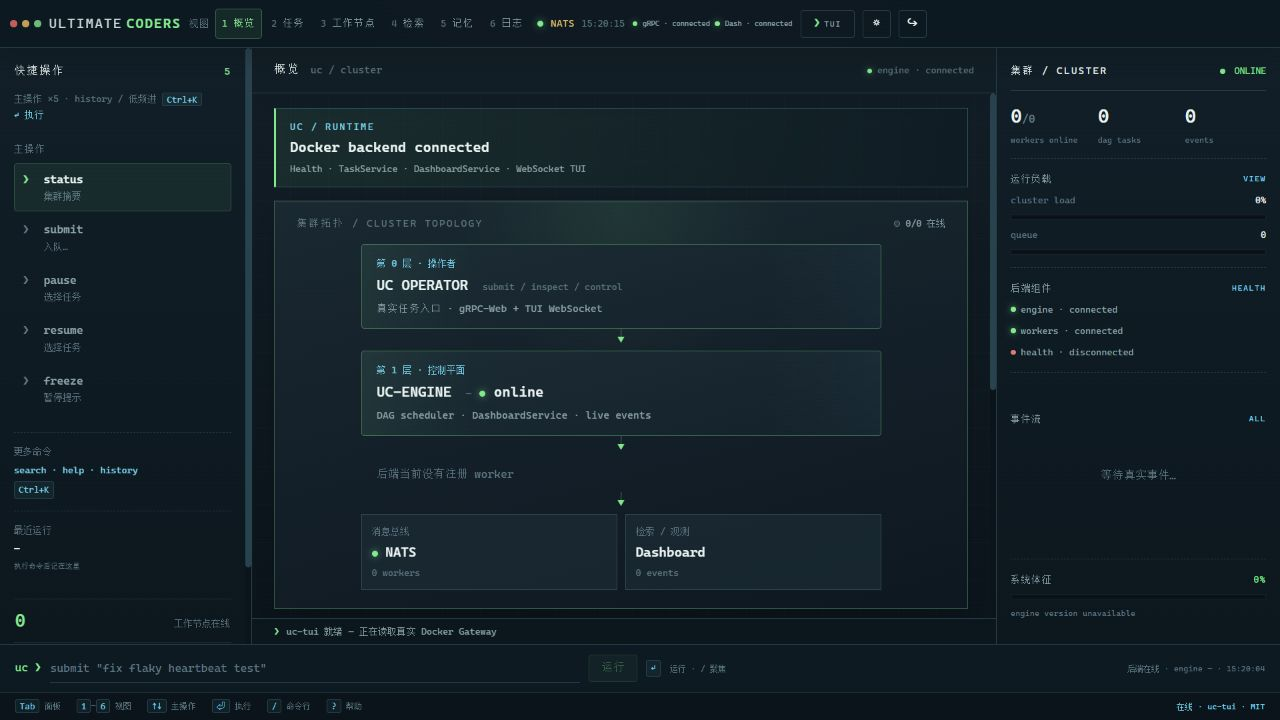
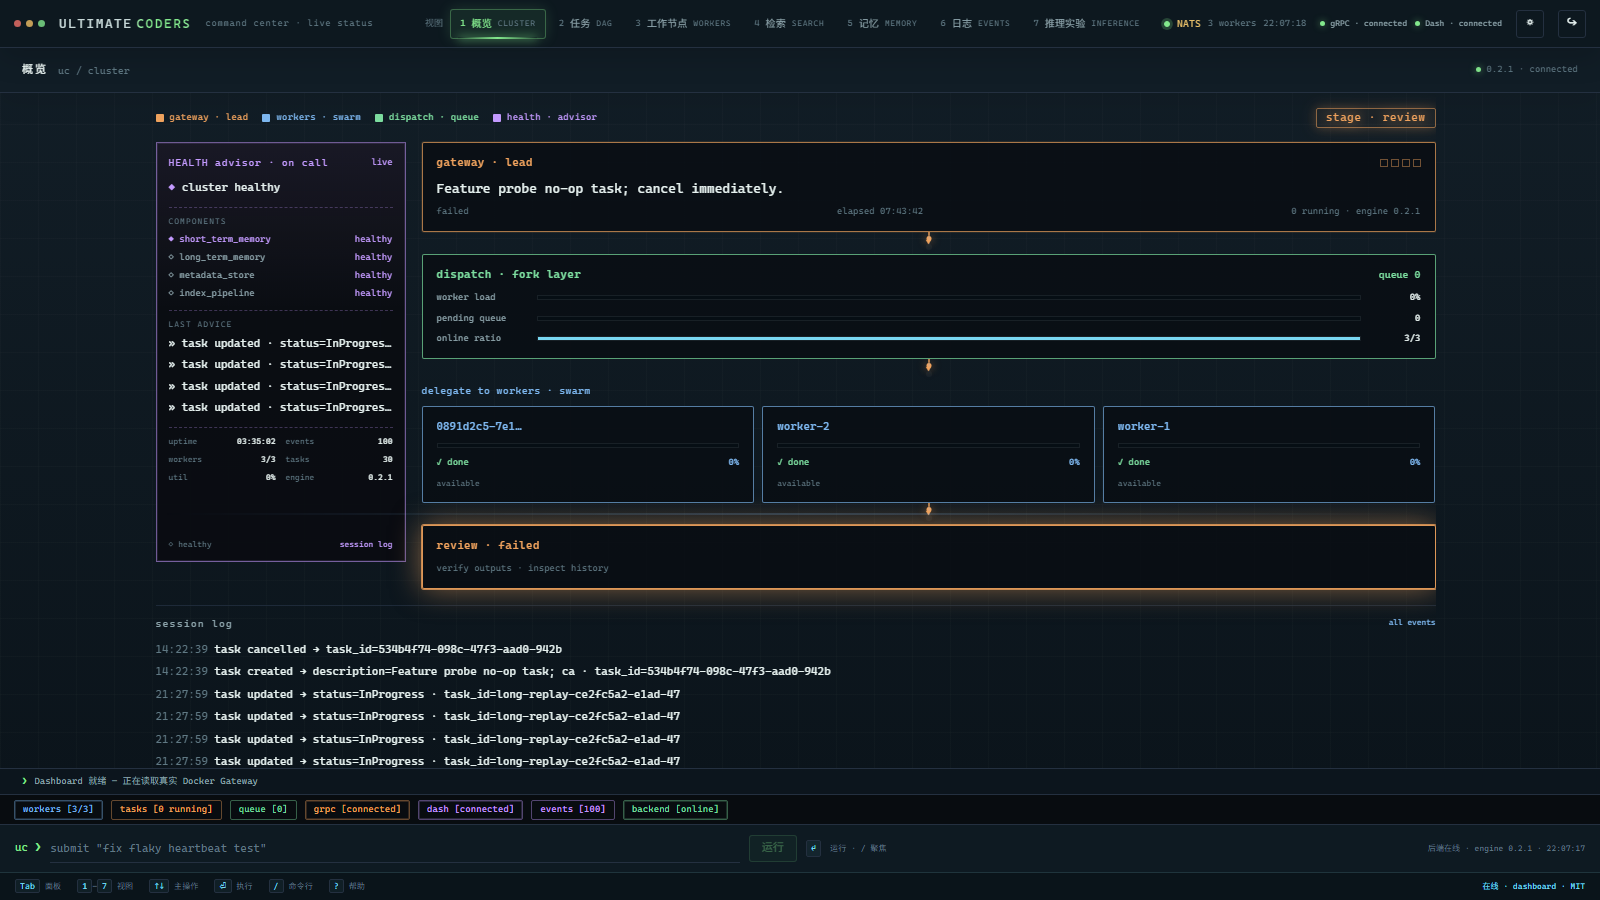
feat(ui): motion polish + refreshed README visuals (#820)
- README (EN/zh-CN): regenerate the product capability and use-case
  graphics with the current feature set (MCP tool servers, deep-linkable
  views, cross-host scale dry-run), add a live operations-dashboard
  screenshot, and refresh the captions.
- Architecture SVGs: regenerate from scripts/generate-architecture.py with
  the worker MCP tool servers noted (EN/zh-CN, landscape/mobile variants).
- Motion polish: view entrances, animated tab underline + glow, brand
  wordmark shimmer, pulsing online dot, card/row hover lift, dispatch-bar
  sheen, command-center scan line, home hero rise; all disabled under
  prefers-reduced-motion.

diff --git a/dashboard/src/index.css b/dashboard/src/index.css
@@ -3198,3 +3198,185 @@ body:has(.terminal-app) {
   .terminal-inference-layout > .terminal-inference-panel { padding: 10px; }
   .terminal-search-row-meta { justify-content: flex-start; }
 }
+
+/* Motion polish ---------------------------------------------------------- */
+/* Transform/opacity-only motion: view entrances, a live tab indicator, a
+   breathing stage chip, a pulsing online dot, card hover lift, a sheen on the
+   dispatch bars and a slow scan line across the command-center board. All of
+   it is disabled for reduced-motion users. */
+@keyframes uc-view-enter {
+  from { opacity: 0; transform: translateY(6px); }
+  to { opacity: 1; transform: translateY(0); }
+}
+@keyframes uc-tab-underline {
+  from { transform: scaleX(0); opacity: 0; }
+  to { transform: scaleX(1); opacity: 1; }
+}
+@keyframes uc-brand-shimmer {
+  0% { background-position: 0% 50%; }
+  100% { background-position: 200% 50%; }
+}
+@keyframes uc-online-pulse {
+  0% { box-shadow: 0 0 0 0 rgba(131, 233, 141, .5); }
+  70% { box-shadow: 0 0 0 5px rgba(131, 233, 141, 0); }
+  100% { box-shadow: 0 0 0 0 rgba(131, 233, 141, 0); }
+}
+@keyframes uc-scan-sweep {
+  0% { top: -4%; opacity: 0; }
+  10% { opacity: .5; }
+  88% { opacity: .28; }
+  100% { top: 104%; opacity: 0; }
+}
+@keyframes uc-bar-sheen {
+  0% { transform: translateX(-130%); }
+  60%, 100% { transform: translateX(230%); }
+}
+@keyframes uc-stage-breathe {
+  0%, 100% { filter: drop-shadow(0 0 0 transparent); }
+  50% { filter: drop-shadow(0 0 7px currentColor); }
+}
+@keyframes uc-home-rise {
+  from { opacity: 0; transform: translateY(16px); }
+  to { opacity: 1; transform: translateY(0); }
+}
+
+/* View transitions: each dashboard view mounts with a short rise. */
+.terminal-view-body > * {
+  animation: uc-view-enter 260ms cubic-bezier(.2, .75, .3, 1) both;
+}
+
+/* Tabs: hover lift, glow and an animated active underline. */
+.terminal-tabs button {
+  position: relative;
+  transition: color .18s ease, background .18s ease, border-color .18s ease, transform .18s ease, box-shadow .18s ease;
+}
+.terminal-tabs button:hover { transform: translateY(-1px); }
+.terminal-tabs button.active {
+  box-shadow: 0 0 14px color-mix(in srgb, var(--terminal-green) 16%, transparent);
+}
+.terminal-tabs button.active::after {
+  content: "";
+  position: absolute;
+  right: 7px;
+  bottom: -1px;
+  left: 7px;
+  height: 2px;
+  border-radius: 2px;
+  background: linear-gradient(90deg, transparent, var(--terminal-green), transparent);
+  box-shadow: 0 0 8px var(--terminal-green);
+  animation: uc-tab-underline 240ms ease-out both;
+}
+
+/* Brand wordmark shimmer. */
+.terminal-brand strong {
+  background: linear-gradient(100deg, var(--terminal-green) 0%, #eafff1 38%, var(--terminal-green) 72%);
+  background-size: 220% 100%;
+  -webkit-background-clip: text;
+  background-clip: text;
+  -webkit-text-fill-color: transparent;
+  color: transparent;
+  animation: uc-brand-shimmer 7s linear infinite;
+}
+.terminal-brand.offline strong {
+  background: none;
+  -webkit-text-fill-color: var(--terminal-amber);
+  animation: none;
+}
+
+/* Live status dot ring. */
+.terminal-topbar-status i.online,
+.terminal-live-dot.online {
+  animation: uc-online-pulse 2.4s ease-out infinite;
+}
+
+/* Command-center cards: hover lift + brightness. */
+.cc-card {
+  transition: transform .2s ease, filter .2s ease, border-color .2s ease;
+}
+.cc-card:hover {
+  transform: translateY(-2px);
+  filter: brightness(1.08);
+}
+.cc-stage-chip {
+  transition: transform .18s ease, box-shadow .18s ease;
+}
+.cc-stage-chip:not(:disabled) { animation: uc-stage-breathe 2.8s ease-in-out infinite; }
+.cc-stage-chip:hover:not(:disabled) { transform: translateY(-1px); }
+
+/* Progress-bar sheen on the dispatch bars (a handful of elements only). */
+.cc-dispatch-bars .terminal-mini-bar i { position: relative; overflow: hidden; }
+.cc-dispatch-bars .terminal-mini-bar i::after {
+  content: "";
+  position: absolute;
+  inset: 0;
+  background: linear-gradient(90deg, transparent, rgba(255, 255, 255, .35), transparent);
+  transform: translateX(-130%);
+  animation: uc-bar-sheen 2.8s ease-in-out infinite;
+}
+
+/* Slow scan line across the command-center board. */
+.terminal-overview.cc-board { position: relative; overflow: hidden; }
+.terminal-overview.cc-board::after {
+  content: "";
+  position: absolute;
+  z-index: 3;
+  right: 0;
+  left: 0;
+  height: 2px;
+  background: linear-gradient(90deg, transparent, color-mix(in srgb, var(--cc-swarm, #83e98d) 55%, transparent), transparent);
+  filter: blur(.4px);
+  animation: uc-scan-sweep 9s linear infinite;
+  pointer-events: none;
+}
+
+/* Rows: hover slide + accent rail. */
+.terminal-worker-row,
+.terminal-swarm-row {
+  transition: transform .18s ease, border-color .18s ease, box-shadow .18s ease;
+}
+.terminal-worker-row:hover,
+.terminal-swarm-row:hover {
+  transform: translateX(2px);
+  box-shadow: -2px 0 0 color-mix(in srgb, var(--terminal-blue) 45%, transparent);
+}
+
+/* Command bar: focus glow and a lifted run button. */
+.terminal-command-bar input:focus { box-shadow: 0 10px 22px -18px var(--terminal-green); }
+.terminal-command-bar button:not(:disabled) {
+  transition: transform .15s ease, box-shadow .15s ease, background .15s ease;
+}
+.terminal-command-bar button:not(:disabled):hover {
+  transform: translateY(-1px);
+  box-shadow: 0 0 16px color-mix(in srgb, var(--terminal-green) 35%, transparent);
+}
+
+/* Home hero entrance. */
+.home-hero-copy > * { animation: uc-home-rise 520ms cubic-bezier(.2, .75, .3, 1) both; }
+.home-hero-copy > *:nth-child(2) { animation-delay: 60ms; }
+.home-hero-copy > *:nth-child(3) { animation-delay: 120ms; }
+.home-hero-copy > *:nth-child(4) { animation-delay: 180ms; }
+.home-hero-copy > *:nth-child(5) { animation-delay: 240ms; }
+.home-runtime-card { animation: uc-home-rise 620ms cubic-bezier(.2, .75, .3, 1) 140ms both; }
+
+@media (prefers-reduced-motion: reduce) {
+  .terminal-view-body > *,
+  .terminal-tabs button.active::after,
+  .terminal-brand strong,
+  .terminal-topbar-status i.online,
+  .terminal-live-dot.online,
+  .cc-stage-chip,
+  .cc-dispatch-bars .terminal-mini-bar i::after,
+  .terminal-overview.cc-board::after,
+  .home-hero-copy > *,
+  .home-runtime-card {
+    animation: none !important;
+  }
+  .cc-card,
+  .terminal-tabs button,
+  .terminal-worker-row,
+  .terminal-swarm-row,
+  .terminal-command-bar button,
+  .cc-stage-chip {
+    transition: none !important;
+  }
+}

diff --git a/scripts/generate-architecture.py b/scripts/generate-architecture.py
@@ -109,10 +109,12 @@ LABELS = {
     "overview_description": (
         "Overview of UltimateCoders: Dashboard and optional OMP submit tasks; "
         "Python plans DAGs and Rust owns task state and dispatch. NATS connects the control "
-        "plane to scalable Workers in isolated Git worktrees. Shared services supply search, "
+        "plane to scalable Workers in isolated Git worktrees. Workers also expose MCP tool "
+        "servers (engine/fs/lsp) to their coding agents. Shared services supply search, "
         "memory and models. Optional MetaInfer supplies specialized GPU tools, with UC acceptance.",
         "UltimateCoders 概览：Dashboard 和可选 OMP 提交任务；Python 规划 DAG，"
         "Rust 管理任务状态与调度。NATS 连接控制层和隔离 worktree 中的可扩展 Worker。"
+        "Worker 还向编程 Agent 暴露 MCP 工具服务（engine/fs/lsp）。"
         "共享服务提供检索、记忆和模型；可选 MetaInfer 提供 GPU 工具，UC 负责验收。",
     ),
     "overview_entry": ("Entry points", "交互入口"),
@@ -121,7 +123,10 @@ LABELS = {
     "overview_gateway": ("State · dispatch · recovery", "状态 · 调度 · 恢复"),
     "overview_planner": ("DAG · domain routing", "DAG · 领域路由"),
     "overview_isolation": ("Sandbox + Git worktrees", "Sandbox + Git worktree"),
-    "overview_adapters": ("Coding / inference adapters", "编程 / 推理适配器"),
+    "overview_adapters": (
+        "Coding / inference adapters · MCP tools",
+        "编程 / 推理适配器 · MCP 工具",
+    ),
     "overview_scale": ("Scale from 1 to N workers", "从 1 个扩展到 N 个 Worker"),
     "overview_omp": ("OMP terminal · optional", "OMP 终端 · 可选"),
     "overview_transport": (

diff --git a/README.md b/README.md
@@ -194,17 +194,23 @@ The product home is the navigation layer between product understanding and real 
 
 Local Vite preview: `http://127.0.0.1:4176/`; operations dashboard: `http://127.0.0.1:4176/#/dashboard`.
 
+### Operations dashboard
+
+![UltimateCoders operations dashboard: command-center overview](docs/screenshots/dashboard-overview.png)
+
+The command center shows live Gateway health, dispatch/queue state, the worker swarm, the session log, and deep-linkable views — `#/dashboard/tasks`, `#/dashboard/workers`, `#/dashboard/search`, `#/dashboard/logs`, `#/dashboard/inference` — so any surface can be bookmarked or restored on reload.
+
 ### Product capabilities
 
 ![UltimateCoders product capabilities](docs/screenshots/product-capabilities.png)
 
-This overview covers DAG orchestration, capability-aware workers, Hybrid Search + Memory, event-driven recovery, and the path from a local workflow to a cluster.
+This overview covers DAG orchestration, capability-aware workers, Hybrid Search + Memory, MCP tool servers, event-driven recovery, and the path from a local workflow to a cluster.
 
 ### Product use cases
 
 ![UltimateCoders product use cases](docs/screenshots/product-scenarios.png)
 
-UltimateCoders targets large-repository changes, parallel delivery, incident diagnosis, and local-to-cluster expansion. The recurring benefits are reusable context, observable execution, and scalable capacity.
+UltimateCoders targets large-repository changes, parallel delivery, incident diagnosis, and local-to-cluster expansion — including deep-linkable operations views and cross-host ScaleWorkers dry-run. The recurring benefits are reusable context, observable execution, and scalable capacity.
 
 ## Runtime and architecture
 

diff --git a/README.zh-CN.md b/README.zh-CN.md
@@ -176,17 +176,23 @@ UC 和 MetaInfer 必须以相同绝对路径访问已分配的真实、独占 Gi
 
 本地预览：`http://127.0.0.1:4176/`；运营 Dashboard：`http://127.0.0.1:4176/#/dashboard`。
 
+### 运营 Dashboard
+
+![UltimateCoders 运营 Dashboard：command center 概览](docs/screenshots/dashboard-overview.png)
+
+Command center 展示实时 Gateway 健康状态、调度/队列状态、Worker 集群、会话日志，以及可深度链接的视图 —— `#/dashboard/tasks`、`#/dashboard/workers`、`#/dashboard/search`、`#/dashboard/logs`、`#/dashboard/inference` —— 任意界面都可收藏或刷新恢复。
+
 ### 产品能力总览
 
 ![UltimateCoders 产品能力总览](docs/screenshots/product-capabilities.png)
 
-总览图展示 DAG 编排、能力感知 Worker、Hybrid Search + Memory、事件驱动恢复，以及从本机工作流到集群的部署路径。
+总览图展示 DAG 编排、能力感知 Worker、Hybrid Search + Memory、MCP 工具服务、事件驱动恢复，以及从本机工作流到集群的部署路径。
 
 ### 产品场景
 
 ![UltimateCoders 产品场景](docs/screenshots/product-scenarios.png)
 
-UltimateCoders 面向大型仓库改造、并行交付、线上问题诊断和从本机扩展到集群四类场景，核心收益是上下文可复用、执行可观测、容量可扩展。
+UltimateCoders 面向大型仓库改造、并行交付、线上问题诊断和从本机扩展到集群四类场景，并支持可深度链接的运营视图与跨主机 ScaleWorkers dry-run。核心收益是上下文可复用、执行可观测、容量可扩展。
 
 ## 运行时与架构细节
 
